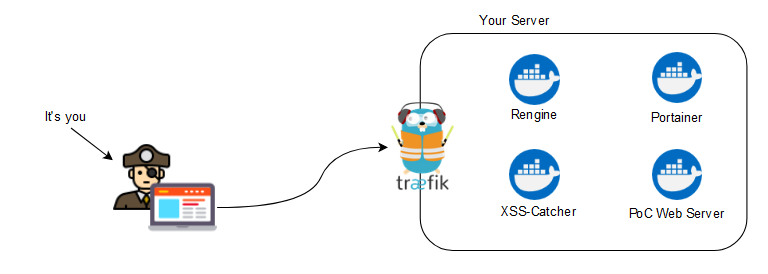
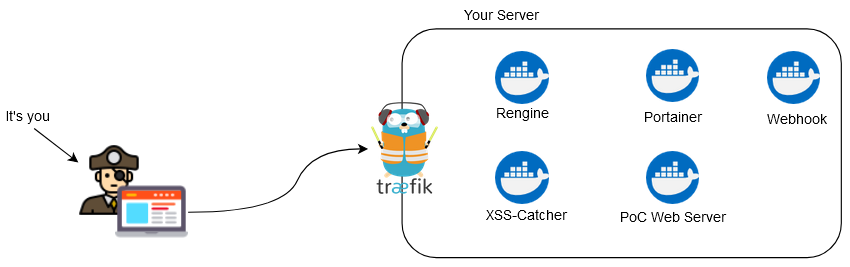
Update My bounty infrastructure with Docker
Add Webhook

diff --git a/content/posts/tuto/my-bounty-infrastructure-with-docker.md b/content/posts/tuto/my-bounty-infrastructure-with-docker.md
@@ -19,6 +19,7 @@ The following services will be installed on your server :
  - [Portainer](https://www.portainer.io/) : Container docker to manage other containers via a web interface, optional but rather useful at first I find and it allows you easy access to the logs of your containers, metrics and shells if needed.
  - [PHP & Apache](https://hub.docker.com/_/php) : Container docker PHP / Apache to host files for our different pocs. I use for example a php file to make redictions when I have a SSRF (cf : [Exploiting my first SSRF](https://www.jomar.fr/posts/2020/03/en-exploiting-my-first-ssrf/)).
  - [Rengine](https://github.com/yogeshojha/rengine/): Container docker for subdomain recognition. For functionality reasons, in this tutorial I will use a version that I modified with [Serizao](https://twitter.com/WilliamSerizao)
+ - [WebHook](https://github.com/fredsted/webhook.site) : Container docker for use, test and debug Webhooks and HTTP requests
 
 ![](/images/2020/tuto/bnty_docker_schema.png)
 
@@ -31,6 +32,7 @@ The following services will be installed on your server :
 		- `poc.your_domain.tld IN CNAME traefik.your_domain.tld`
 		- `xss.your_domain.tld IN CNAME traefik.your_domain.tld`
 		- `recon.your_domain.tld IN CNAME traefik.your_domain.tld`
+    - `webhook.your_domain.tld IN CNAME traefik.your_domain.tld`
 		- `portainer.your_domain.tld IN CNAME traefik.your_domain.tld`
 		- `your_domain.tld CAA 128 issue "letsencrypt.org"`
 
@@ -52,6 +54,7 @@ cd ../ && cd Portainer && docker-compose up -d
 cd ../ && cd Poc && docker-compose up -d
 cd ../ && cd XSS-Catcher && docker-compose up -d
 cd ../ && cd Rengine && docker-compose up -d
+cd ../ && cd Webhook && docker-compose up -d
 ```
 All of your containers should now be started.
 
@@ -130,7 +133,14 @@ docker-compose restart
 make username
 ```
 
-Rengine will be accessible via [https://recon.your_domain.tld](recon.your_domain.tld)
+Rengine will be accessible via [https://recon.your_domain.tld](https://recon.your_domain.tld)
+
+## Webhook
+Pretty handy if you don't have access to burp collaborator or if you don't want to use it. It can also make it easier to manage if you have several requests to make and it's more ergnomic.
+
+![](/images/2020/tuto/bnty_docker_webhook.png)
+
+Webhook will be accessible via [https://webhook.your_domain.tld](https://webhook.your_domain.tld)
 
 ## Add a new container
 In case you want to add a new container, here's what you need to do.
